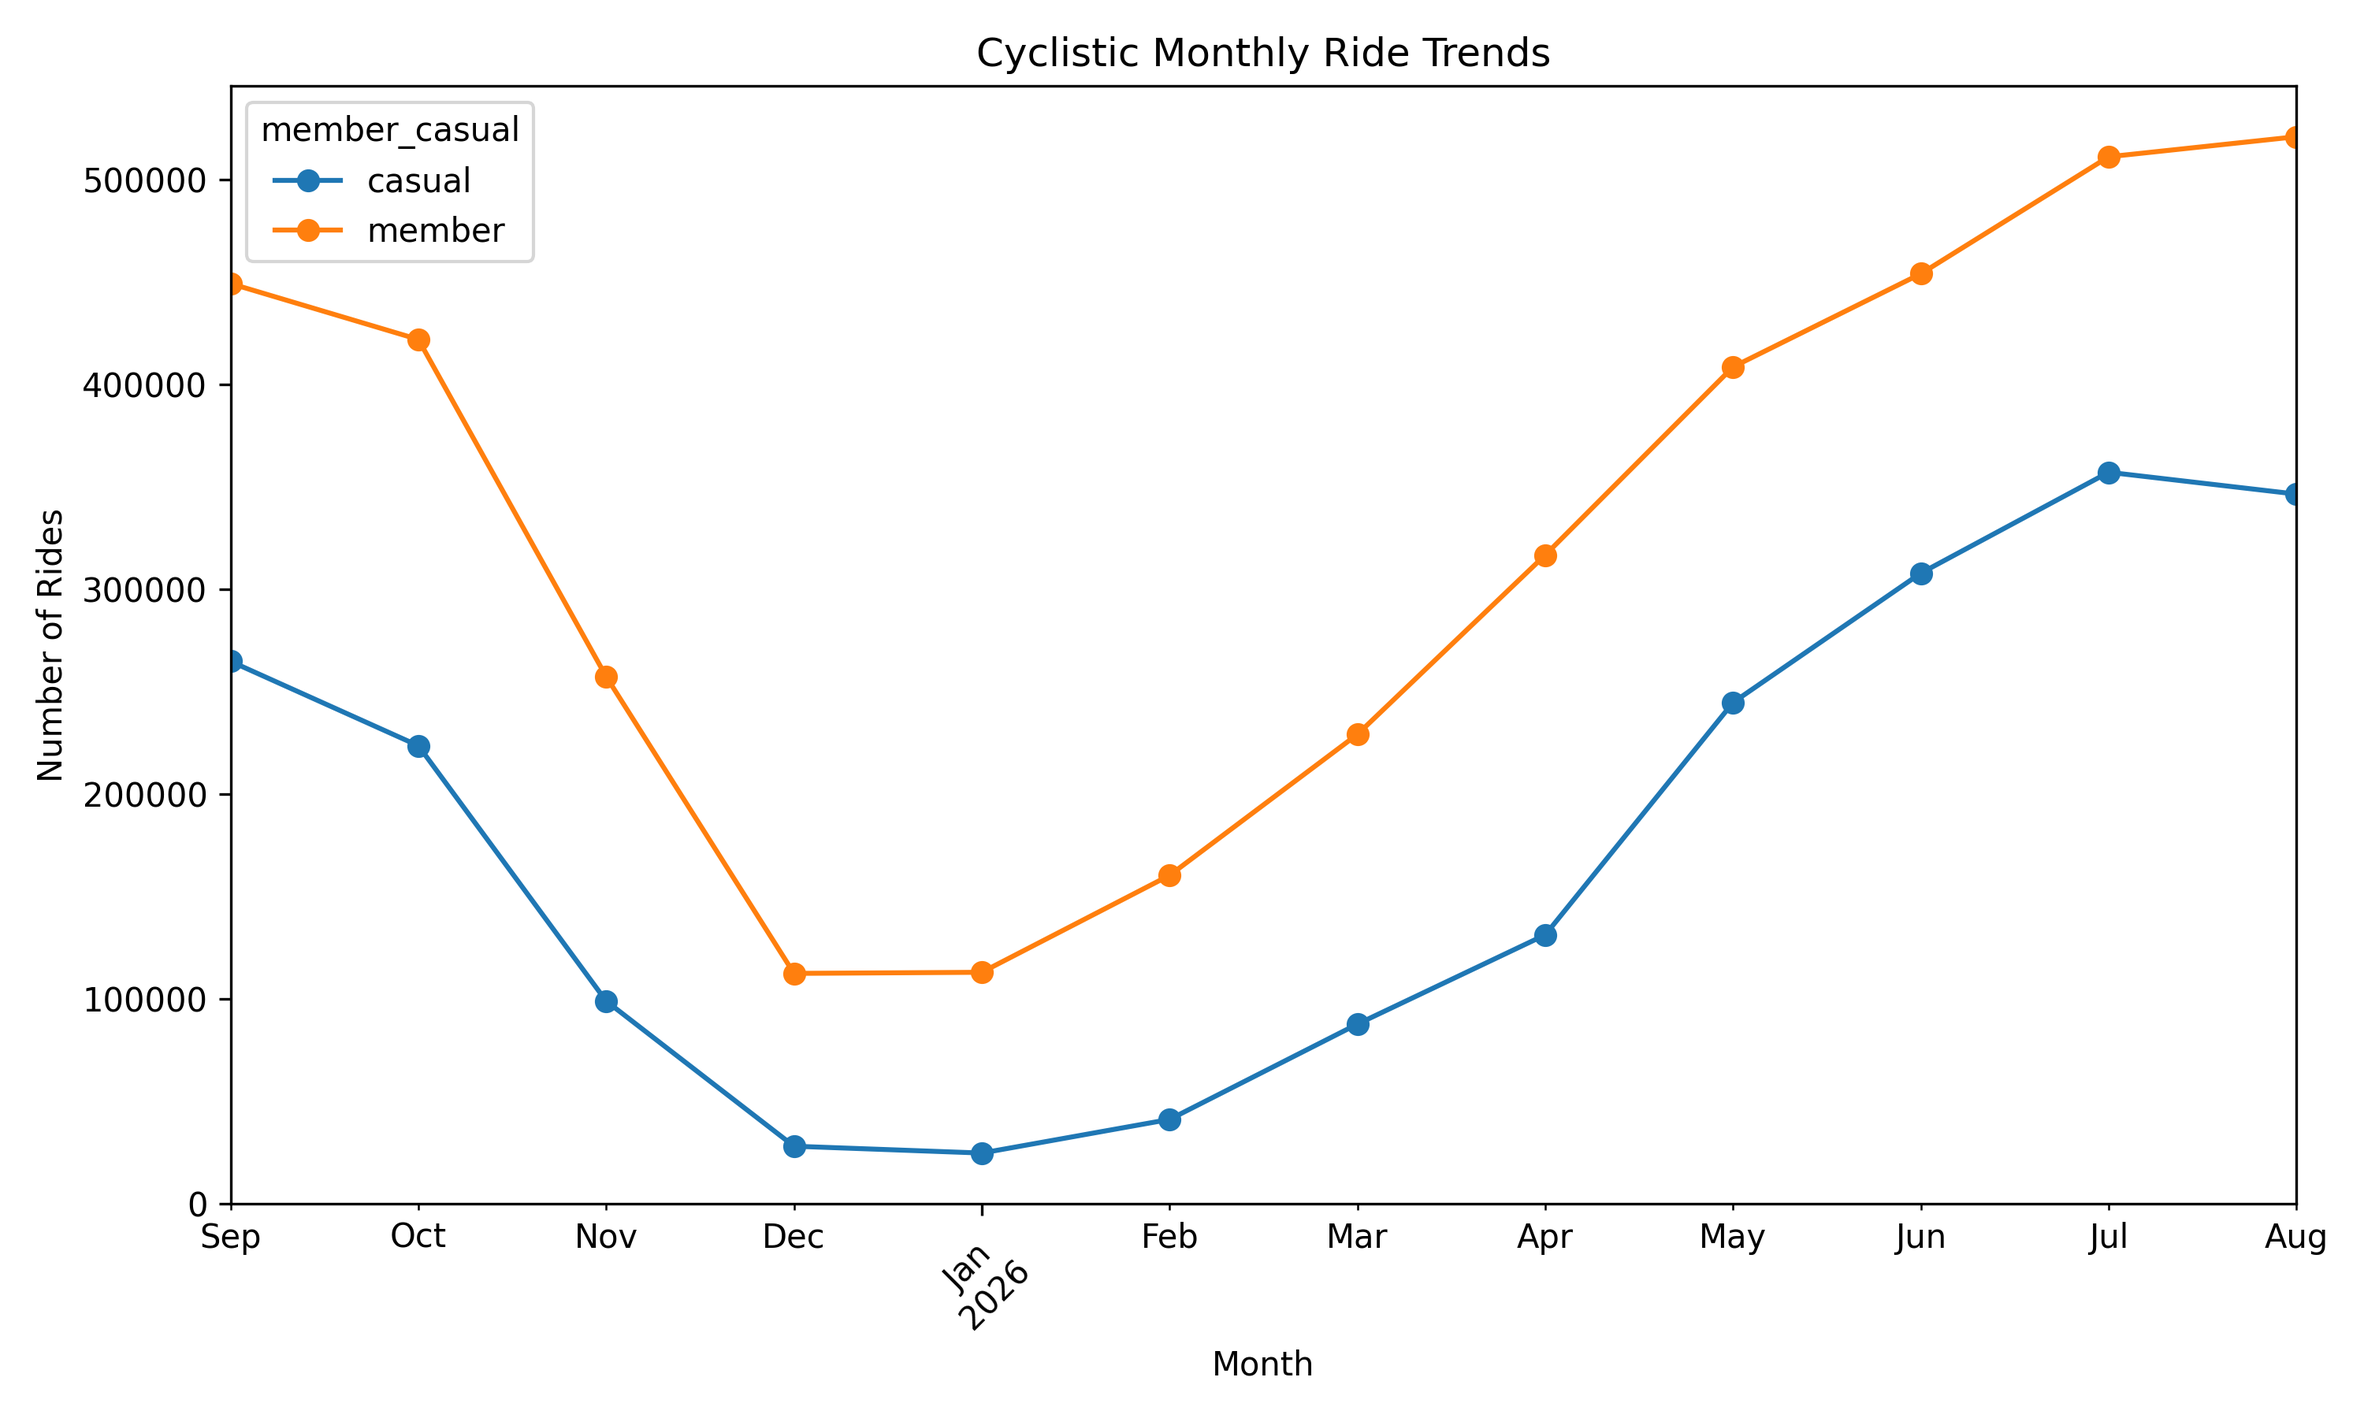
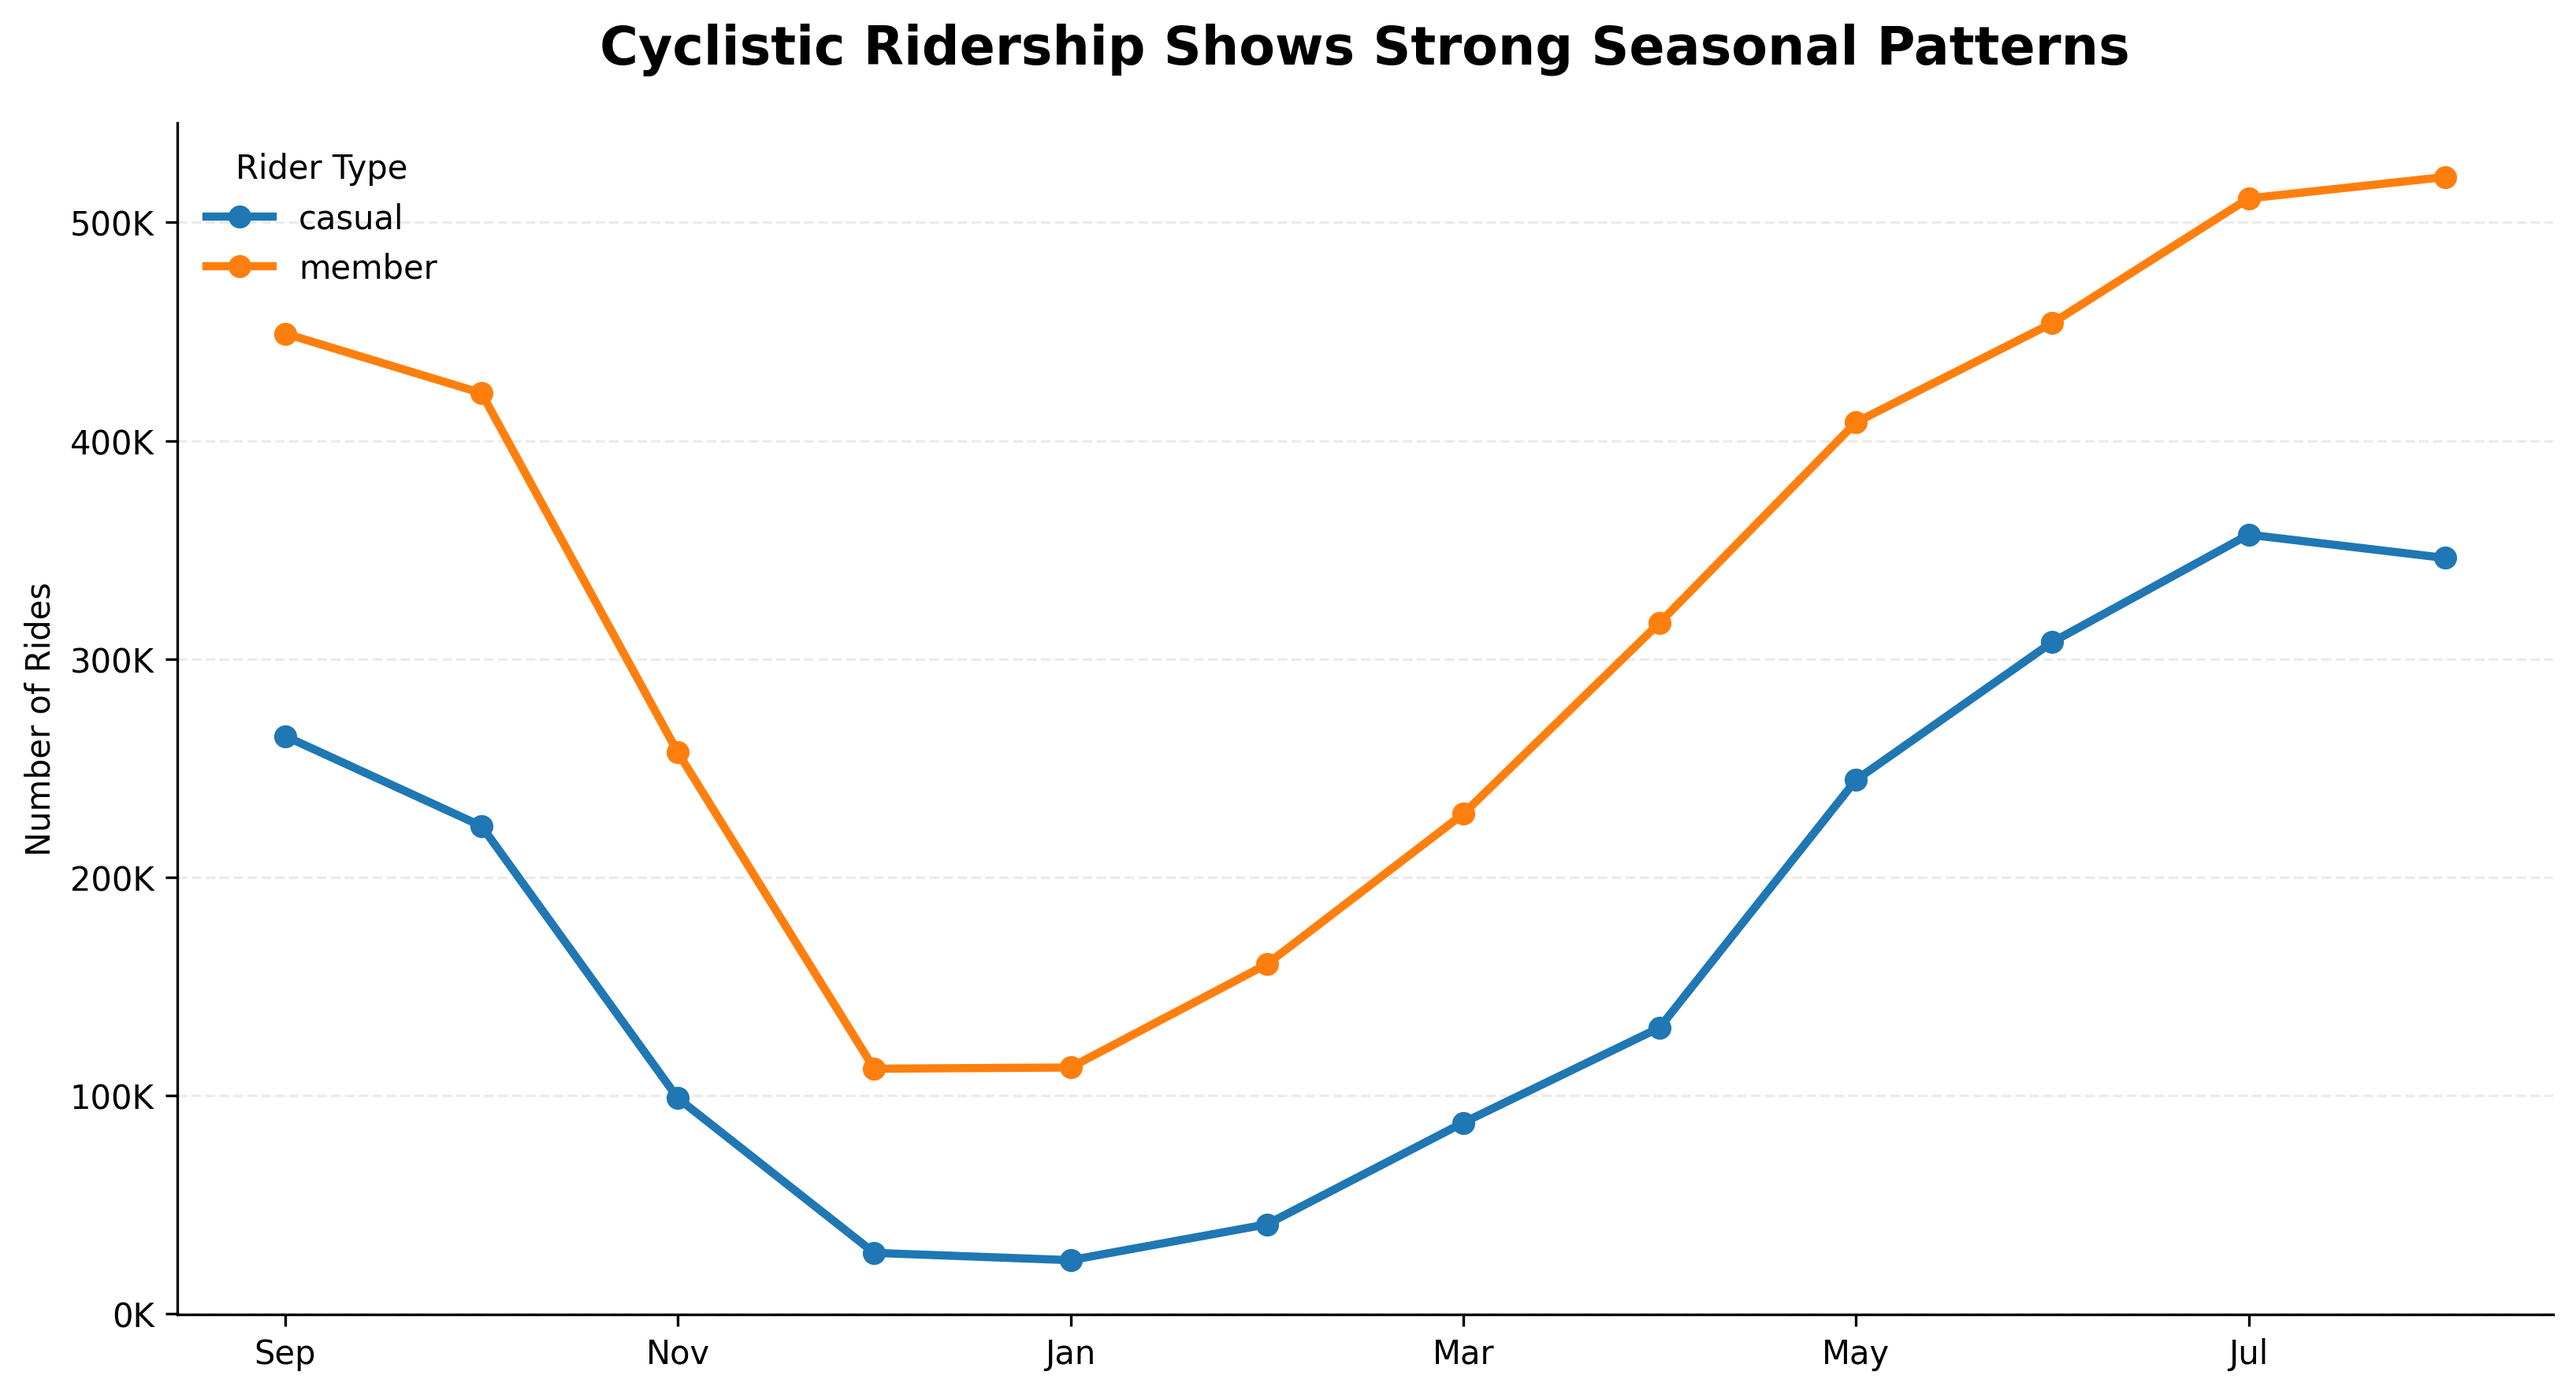
Polish chart visualizations

diff --git a/python/cyclistic_analysis.py b/python/cyclistic_analysis.py
@@ -1,5 +1,6 @@
 import pandas as pd
 import matplotlib.pyplot as plt
+from matplotlib.ticker import FuncFormatter
 from pathlib import Path
 
 raw_data_folder = Path("Raw_Data")
@@ -133,95 +134,168 @@ ride_share = (
 print("\nRide share by rider type (%):")
 print(ride_share)
 
+from matplotlib.ticker import FuncFormatter
+
 day_order = [
-    "Monday",
-    "Tuesday",
-    "Wednesday",
-    "Thursday",
-    "Friday",
-    "Saturday",
-    "Sunday"
+    "Monday", "Tuesday", "Wednesday",
+    "Thursday", "Friday", "Saturday", "Sunday"
 ]
+
+# -----------------------------
+# CHART 1: RIDES BY DAY
+# -----------------------------
 
 rides_by_day = rides_by_day[day_order]
 
-rides_by_day.T.plot(
+ax = rides_by_day.T.plot(
     kind="bar",
-    figsize=(10, 6)
+    figsize=(11, 6),
+    width=0.75
 )
 
-plt.title("Cyclistic Rides by Day of Week")
-plt.xlabel("Day of Week")
+plt.title(
+    "Members Lead on Weekdays, Casual Riders on Weekends",
+    fontsize=15,
+    fontweight="bold",
+    pad=18
+)
+
+plt.xlabel("")
 plt.ylabel("Number of Rides")
-plt.xticks(rotation=45)
+plt.xticks(rotation=0)
+
+ax.yaxis.set_major_formatter(
+    FuncFormatter(lambda x, _: f"{x/1000:.0f}K")
+)
+
+ax.grid(axis="y", alpha=0.25, linestyle="--")
+ax.set_axisbelow(True)
+
+ax.spines["top"].set_visible(False)
+ax.spines["right"].set_visible(False)
+
+plt.legend(title="Rider Type", frameon=False)
+
 plt.tight_layout()
-
-plt.savefig("charts/rides_by_day.png", dpi=300)
-
+plt.savefig("charts/rides_by_day.png", dpi=300, bbox_inches="tight")
 plt.close()
 
-rides_by_month.plot(
+
+# -----------------------------
+# CHART 2: MONTHLY TRENDS
+# -----------------------------
+
+rides_by_month.index = rides_by_month.index.strftime("%b")
+
+ax = rides_by_month.plot(
     kind="line",
     marker="o",
-    figsize=(10, 6)
+    linewidth=2.5,
+    figsize=(11, 6)
 )
 
-plt.title("Cyclistic Monthly Ride Trends")
-plt.xlabel("Month")
+plt.title(
+    "Cyclistic Ridership Shows Strong Seasonal Patterns",
+    fontsize=16,
+    fontweight="bold",
+    pad=18
+)
+
+plt.xlabel("")
 plt.ylabel("Number of Rides")
-plt.xticks(rotation=45)
+
+plt.xticks(rotation=0)
+
+ax.yaxis.set_major_formatter(
+    FuncFormatter(lambda x, _: f"{x/1000:.0f}K")
+)
+
+ax.grid(axis="y", alpha=0.25, linestyle="--")
+ax.set_axisbelow(True)
+
+ax.spines["top"].set_visible(False)
+ax.spines["right"].set_visible(False)
+
+plt.legend(title="Rider Type", frameon=False)
+
 plt.tight_layout()
 
-plt.savefig("charts/monthly_ride_trends.png", dpi=300)
+plt.savefig(
+    "charts/monthly_ride_trends.png",
+    dpi=300,
+    bbox_inches="tight"
+)
 
 plt.close()
+
+
+# -----------------------------
+# CHART 3: AVERAGE RIDE LENGTH
+# -----------------------------
 
 avg_minutes = average_ride_length.dt.total_seconds() / 60
 
-avg_minutes.plot(
+ax = avg_minutes.plot(
     kind="bar",
-    figsize=(7, 5)
+    figsize=(8, 5),
+    width=0.55
 )
 
-plt.title("Average Ride Length by Rider Type")
-plt.xlabel("Rider Type")
+plt.title(
+    "Casual Riders Take Longer Trips on Average",
+    fontsize=16,
+    fontweight="bold",
+    pad=18
+)
+
+plt.xlabel("")
 plt.ylabel("Average Ride Length (Minutes)")
 plt.xticks(rotation=0)
-plt.tight_layout()
 
-plt.savefig("charts/average_ride_length.png", dpi=300)
+ax.grid(axis="y", alpha=0.25, linestyle="--")
+ax.set_axisbelow(True)
+
+ax.spines["top"].set_visible(False)
+ax.spines["right"].set_visible(False)
+
+for container in ax.containers:
+    ax.bar_label(
+        container,
+        fmt="%.1f min",
+        padding=5,
+        fontweight="bold"
+    )
+
+plt.tight_layout()
+plt.savefig("charts/average_ride_length.png", dpi=300, bbox_inches="tight")
 plt.close()
 
-ride_share.plot(
+
+# -----------------------------
+# CHART 4: RIDE SHARE
+# -----------------------------
+
+ax = ride_share.plot(
     kind="pie",
     autopct="%1.1f%%",
-    figsize=(6, 6),
+    figsize=(7, 7),
+    startangle=90,
     ylabel=""
 )
 
-plt.title("Cyclistic Ride Share by Rider Type")
-plt.tight_layout()
-
-plt.savefig("charts/ride_share.png", dpi=300)
-
-plt.close()
-
-avg_ride_by_day_minutes = avg_ride_by_day.apply(
-    lambda column: column.dt.total_seconds() / 60
+plt.title(
+    "Members Account for Nearly Two-Thirds of All Rides",
+    fontsize=15,
+    fontweight="bold",
+    pad=18
 )
 
-avg_ride_by_day_minutes = avg_ride_by_day_minutes[day_order]
-
-avg_ride_by_day_minutes.T.plot(
-    kind="bar",
-    figsize=(10, 6)
-)
-
-plt.title("Average Ride Length by Day of Week")
-plt.xlabel("Day of Week")
-plt.ylabel("Average Ride Length (Minutes)")
-plt.xticks(rotation=45)
 plt.tight_layout()
 
-plt.savefig("charts/average_ride_length_by_day.png", dpi=300)
+plt.savefig(
+    "charts/ride_share.png",
+    dpi=300,
+    bbox_inches="tight"
+)
+
 plt.close()
